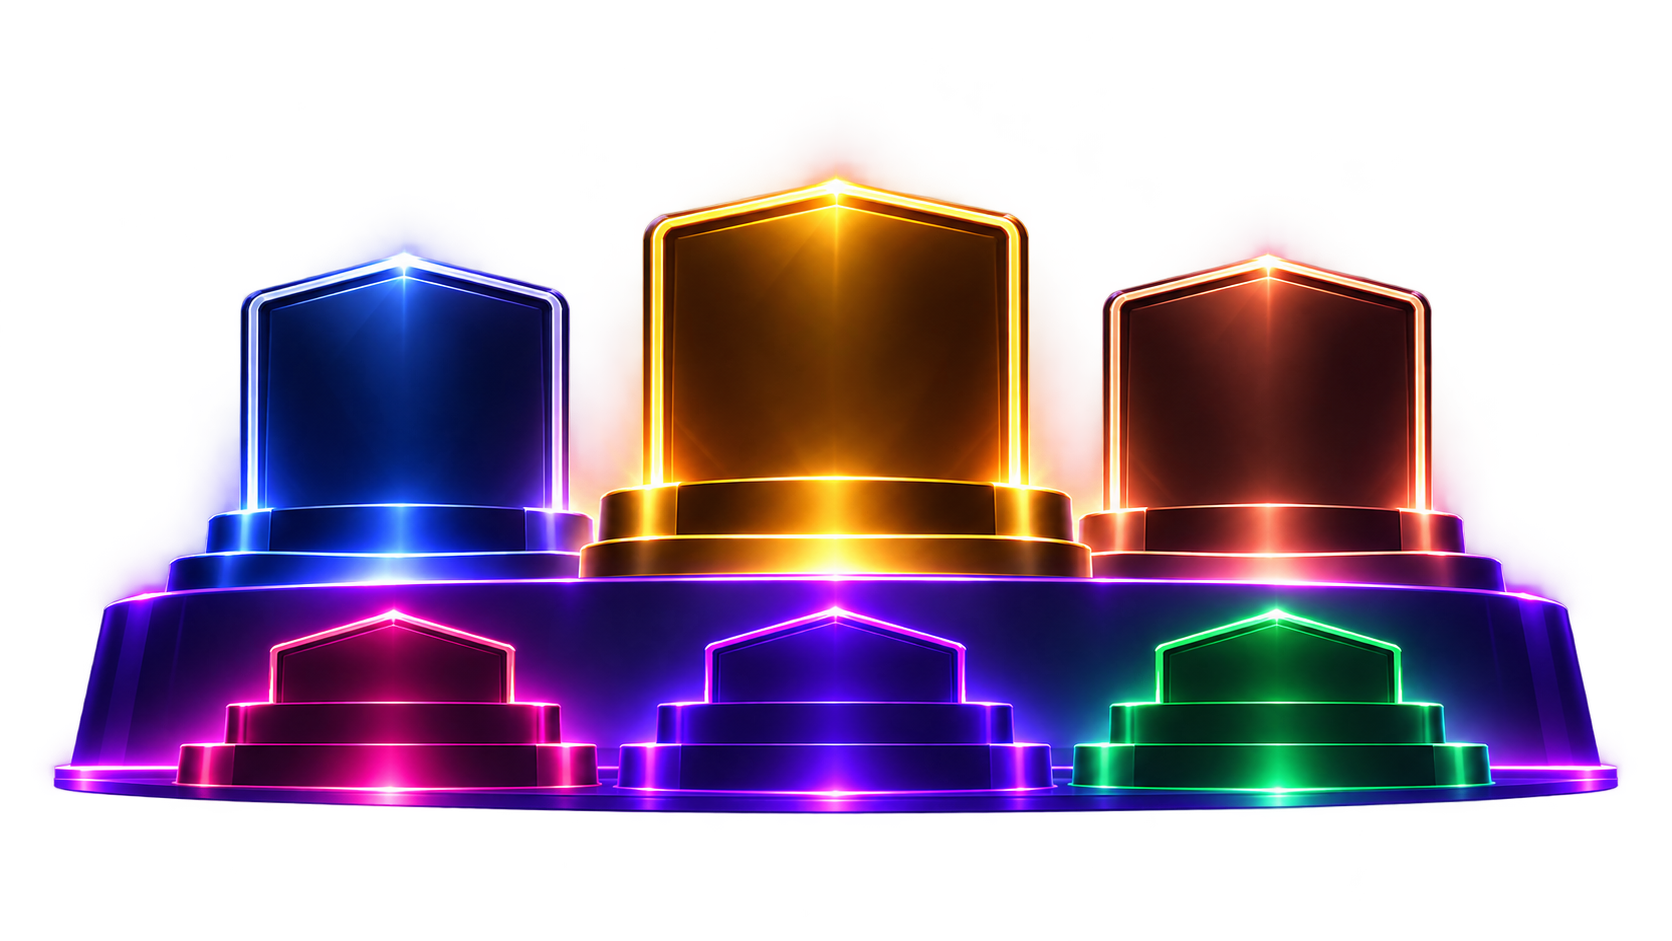
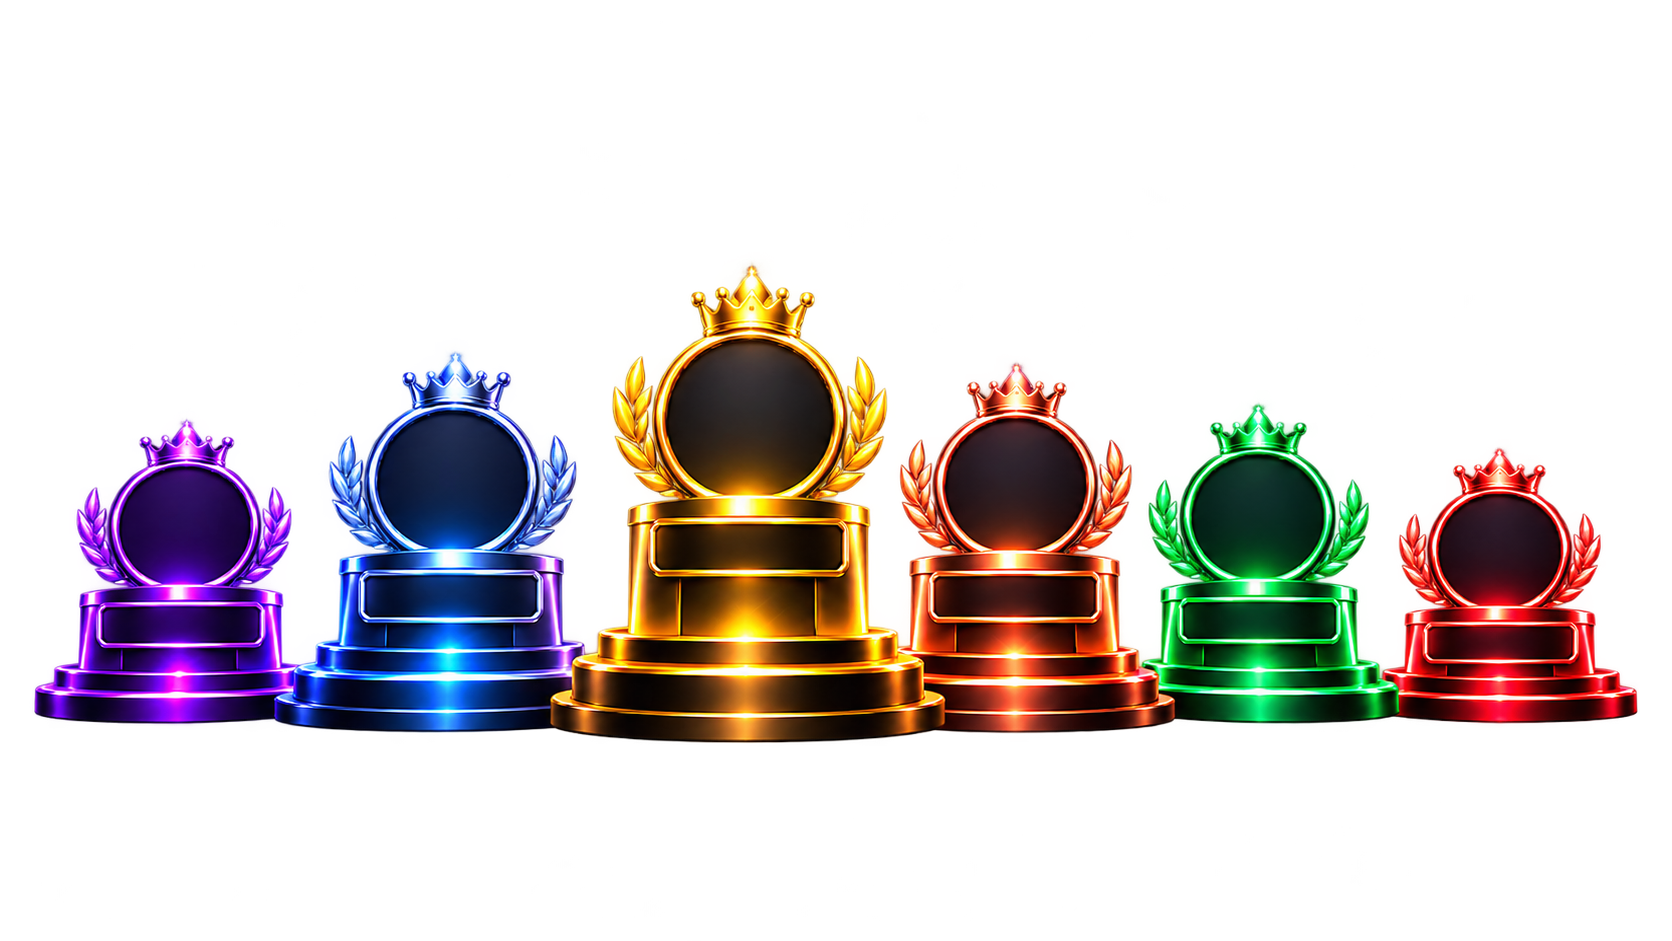
Man xep hang theo bo tranh sau chiec cup
Tranh moi: moi cup co HAI o de trong - huy chuong tron giu DIEM, bien ten giu
so hang + ten. Ti le noi dung 3,33:1 (truoc 2,28:1) nen buc nay lap het be ngang
man; truoc bi chieu cao chan, thua ~28% be ngang.

Sau cup KHONG xep theo hang tu trai sang phai: thu tu trong tranh la 4-2-1-3-5-6,
nhan ra bang chieu cao cup. SLOTS xep theo HANG, phan tram ben trong tro dung cot.
Vi the so hang cang phai viet ra.

LOI mat mot vong chay: boc hai vung cua moi cup trong mot View de dat key. View
do khong co kich thuoc nen hai vung con tinh phan tram theo NO chu khong phai
khung tranh - chu bien mat sach trong khi tranh van len binh thuong. Sua bang
Fragment. `position: absolute` tinh theo cha gan nhat co kich thuoc.

Do tren SM-A175F, van 4 nguoi - xem TEST_CASES K46.

diff --git a/src/components/LeaderboardStage.tsx b/src/components/LeaderboardStage.tsx
@@ -1,4 +1,4 @@
-import { useEffect } from 'react';
+import { Fragment, useEffect } from 'react';
 import { Image, ImageBackground, Pressable, StyleSheet, Text, View } from 'react-native';
 import { useSafeAreaInsets } from 'react-native-safe-area-context';
 import Animated, {
@@ -29,36 +29,47 @@ import { text } from '../theme/colors';
  */
 
 /**
- * Sáu mặt bục, tính theo PHẦN TRĂM khung ảnh `podium.png`.
+ * Sáu chỗ trên `podium.png`, tính theo PHẦN TRĂM khung ảnh.
  *
- * ⚠ Đo bằng mã (quét kênh alpha của chính tấm ảnh), không ướm bằng mắt: lệch
- * vài phần trăm là chữ leo lên viền neon và tấm ảnh trông như bị lỗi. Đổi tranh
- * thì phải đo lại — quy trình ghi ở TEST_CASES **K46**.
+ * Bộ tranh thứ hai (2026-09-10 tối) là **sáu chiếc cúp**, mỗi cúp có hai ô để
+ * trống: **huy chương tròn** ở trên và **biển tên** ở dưới. Nên mỗi hạng cần
+ * HAI vùng chứ không phải một.
  *
- * Thứ tự mảng = thứ hạng 1..6, KHÔNG phải thứ tự trái sang phải: hạng nhất là
- * bục vàng ở giữa.
+ * ⚠ Sáu cúp KHÔNG xếp theo hạng từ trái sang phải. Thứ tự trong tranh là
+ * **4 – 2 – 1 – 3 – 5 – 6**, nhận ra bằng chiều cao (cúp cao hơn = hạng cao
+ * hơn). Mảng này xếp theo HẠNG, phần trăm bên trong đã trỏ đúng cột.
+ *
+ * ⚠ Đo bằng mã, không ướm mắt: `scripts/dev-podium-zones.py` ở repo server quét
+ * kênh alpha rồi in ra bộ số này kèm ảnh có lưới. Đổi tranh thì chạy lại. Lệch
+ * vài phần trăm là chữ leo lên viền neon, mà nhìn mã thì không thấy gì sai.
  */
 const SLOTS = [
-  { left: '38.5%', top: '17%', width: '23%', height: '33%', tall: true },
-  { left: '13.5%', top: '26%', width: '19%', height: '24%', tall: true },
-  { left: '67.5%', top: '27%', width: '19.5%', height: '23%', tall: true },
-  { left: '14.5%', top: '76%', width: '15.5%', height: '11%', tall: false },
-  { left: '40.5%', top: '76%', width: '18%', height: '11%', tall: false },
-  { left: '68.5%', top: '76%', width: '17%', height: '11%', tall: false },
+  { medal: { left: '39.3%', top: '24.6%', width: '10.5%', height: '14.7%' },
+    plate: { left: '39.0%', top: '54.6%', width: '11.3%', height: '8.3%' } },
+  { medal: { left: '21.2%', top: '35.6%', width: '9.2%', height: '15.3%' },
+    plate: { left: '20.6%', top: '66.2%', width: '10.7%', height: '5.8%' } },
+  { medal: { left: '56.2%', top: '37.2%', width: '8.7%', height: '15.0%' },
+    plate: { left: '56.1%', top: '65.4%', width: '10.0%', height: '7.8%' } },
+  { medal: { left: '5.2%', top: '46.3%', width: '8.0%', height: '12.5%' },
+    plate: { left: '4.5%', top: '71.8%', width: '9.5%', height: '5.6%' } },
+  { medal: { left: '71.4%', top: '44.4%', width: '8.3%', height: '15.1%' },
+    plate: { left: '71.6%', top: '70.7%', width: '9.5%', height: '7.5%' } },
+  { medal: { left: '86.8%', top: '52.3%', width: '7.7%', height: '13.0%' },
+    plate: { left: '86.9%', top: '75.7%', width: '9.0%', height: '6.3%' } },
 ] as const;
 
 /**
- * Tỉ lệ thật của `podium.png` (1578×692).
+ * Tỉ lệ thật của `podium.png` (1604×482).
  *
  * ⚠ Khung bọc PHẢI đúng tỉ lệ này. Bản đầu để khung `flex: 1` rồi vẽ ảnh bằng
  * `contain`: ảnh co lại nằm giữa khung, còn sáu ô chữ vẫn tính theo phần trăm
  * của KHUNG - thành ra tên và điểm trôi hẳn ra ngoài mặt bục. Nhìn ảnh chụp là
  * thấy ngay, nhưng đọc mã thì không.
  */
-const PODIUM_RATIO = 1578 / 692;
+const PODIUM_RATIO = 1604 / 482;
 
 /** Màu điểm của từng bục, lấy theo đúng màu neon trong tranh. */
-const SLOT_COLOR = ['#FFD46A', '#A9CCFF', '#FF9E80', '#FF6BA8', '#C79BFF', '#5FE39C'];
+const SLOT_COLOR = ['#FFC93C', '#7FB6FF', '#FF8A50', '#C07BFF', '#4FE38A', '#FF5C6A'];
 
 const ARENA = require('../../assets/leaderboard/arena.png');
 const PODIUM = require('../../assets/leaderboard/podium.png');
@@ -152,54 +163,51 @@ export function LeaderboardStage({
             const row = globalRows[i];
             if (!row) return null;
             const isMe = row.PlayerId === meId;
-            return (
-              <View key={i} style={[styles.slot, slot]}>
-                {/*
-                  Số hạng phải VIẾT RA: tranh để mặt bục trắng trơn, mà thế đứng
-                  cao thấp chỉ nói được ai nhất - ba bục hàng dưới bằng nhau thì
-                  không ai đoán nổi đâu là 4, đâu là 6.
+            const color = SLOT_COLOR[i];
 
-                  ⚠ Hàng dưới ghép số vào CÙNG DÒNG với tên. Tách thành ba dòng
-                  thì dòng đầu rơi đúng lên đỉnh neon sáng của bục và số biến mất
-                  hẳn - đã thấy trên ảnh chụp máy thật.
-                */}
-                {slot.tall ? (
+            return (
+              /*
+               * ⚠ `Fragment`, KHÔNG phải `View`. Bọc trong một `View` không kích
+               * thước thì hai vùng con tính phần trăm theo CÁI BỌC RỖNG đó chứ
+               * không phải khung tranh - chữ biến mất sạch, tranh vẫn lên bình
+               * thường nên nhìn như "chưa có dữ liệu". Đã dính 2026-09-10.
+               */
+              <Fragment key={i}>
+                {/* Huy chương tròn: ĐIỂM, số to nhất trên màn. */}
+                <View style={[styles.zone, slot.medal]}>
                   <Text
-                    style={[styles.slotRank, { color: SLOT_COLOR[i] }]}
+                    style={[styles.medalScore, { color }]}
                     numberOfLines={1}
+                    adjustsFontSizeToFit
+                  >
+                    {row.Score.toLocaleString()}
+                  </Text>
+                </View>
+
+                {/*
+                  Biển tên: số hạng + tên trên MỘT dòng.
+
+                  ⚠ Số hạng phải viết ra. Sáu cúp xếp 4-2-1-3-5-6 nên thứ tự
+                  trái-phải nói sai sự thật; chiều cao cúp thì chỉ người tinh mắt
+                  mới đọc được.
+                */}
+                <View style={[styles.zone, styles.plate, slot.plate]}>
+                  <Text
+                    style={[styles.plateRank, { color }]}
+                    numberOfLines={1}
+                    adjustsFontSizeToFit
                   >
                     {i + 1}
                   </Text>
-                ) : null}
-
-                <View style={styles.slotNameRow}>
-                  {!slot.tall ? (
-                    <Text style={[styles.slotRankSmall, { color: SLOT_COLOR[i] }]}>
-                      {i + 1}
-                    </Text>
-                  ) : null}
                   <Text
-                    style={[
-                      slot.tall ? styles.slotName : styles.slotNameSmall,
-                      isMe && styles.slotMine,
-                    ]}
+                    style={[styles.plateName, isMe && styles.slotMine]}
                     numberOfLines={1}
                     adjustsFontSizeToFit
                   >
                     {row.PlayerName}
                   </Text>
                 </View>
-
-                <Text
-                  style={[
-                    slot.tall ? styles.slotScore : styles.slotScoreSmall,
-                    { color: SLOT_COLOR[i] },
-                  ]}
-                  numberOfLines={1}
-                >
-                  {row.Score.toLocaleString()}
-                </Text>
-              </View>
+              </Fragment>
             );
           })}
         </Animated.View>
@@ -279,16 +287,13 @@ const styles = StyleSheet.create({
 
   podiumArea: { flex: 1, marginTop: 2, alignItems: 'center', justifyContent: 'center' },
   /* Đúng tỉ lệ ảnh -> phần trăm của khung KHỚP phần trăm của tranh. */
-  podiumBox: { height: '100%', aspectRatio: PODIUM_RATIO, maxWidth: '96%' },
+  podiumBox: { height: '100%', aspectRatio: PODIUM_RATIO, maxWidth: '100%' },
   podiumImg: { width: '100%', height: '100%' },
-  slot: { position: 'absolute', alignItems: 'center', justifyContent: 'center' },
-  slotRank: { fontSize: 17, fontWeight: '900', lineHeight: 19 },
-  slotRankSmall: { fontSize: 12, fontWeight: '900', lineHeight: 14 },
-  slotNameRow: { flexDirection: 'row', alignItems: 'center', gap: 5 },
-  slotName: { fontSize: 14.5, fontWeight: '800', lineHeight: 18, color: '#fff' },
-  slotNameSmall: { fontSize: 11, fontWeight: '800', lineHeight: 13, color: '#fff' },
-  slotScore: { fontSize: 24, fontWeight: '900', lineHeight: 28 },
-  slotScoreSmall: { fontSize: 15, fontWeight: '900', lineHeight: 17 },
+  zone: { position: 'absolute', alignItems: 'center', justifyContent: 'center' },
+  medalScore: { fontSize: 34, fontWeight: '900' },
+  plate: { flexDirection: 'row', alignItems: 'center', justifyContent: 'center', gap: 5 },
+  plateRank: { fontSize: 14, fontWeight: '900' },
+  plateName: { fontSize: 15, fontWeight: '800', color: '#fff', flexShrink: 1 },
   slotMine: { color: '#FDE68A' },
 
   footer: {},
